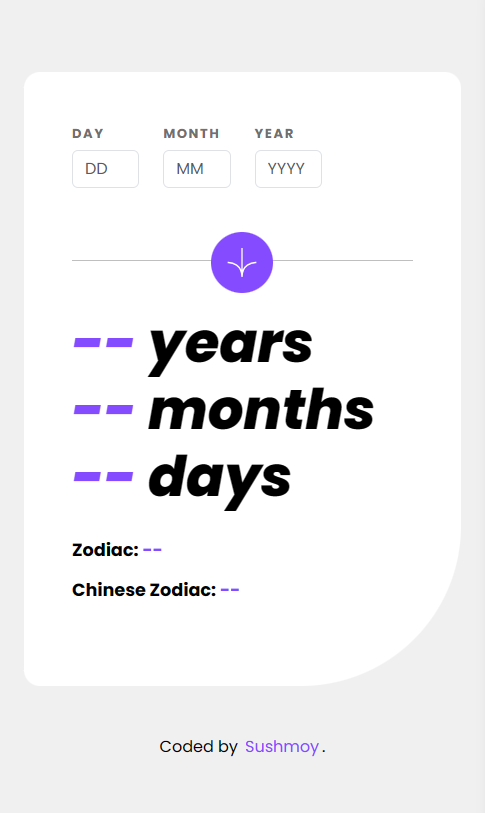
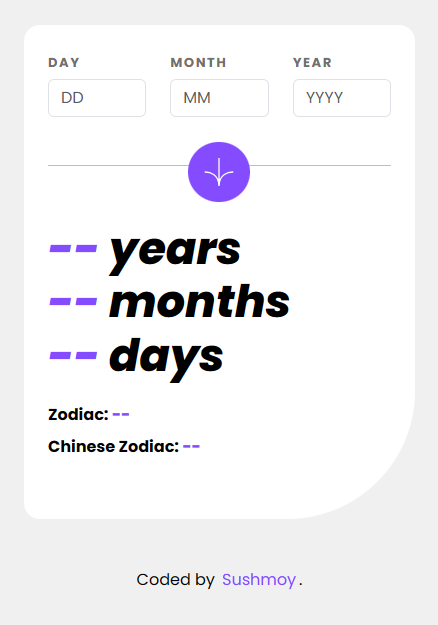
Updated mobile screenshot

diff --git a/src/App.vue b/src/App.vue
@@ -418,7 +418,8 @@ main {
 
 @media (max-width: 768px) {
   .submission {
-    padding: 2.5rem 0 2rem;
+    padding: 1rem 0 0;
+    margin: 1rem 0 2.5rem;
   }
 
   hr {
@@ -437,7 +438,7 @@ main {
   }
   main{
     padding: 1.5rem;
-    border-bottom-right-radius: 10rem;
+    border-bottom-right-radius: 8rem;
   }
   .zodiac{
     font-size: 1rem;
